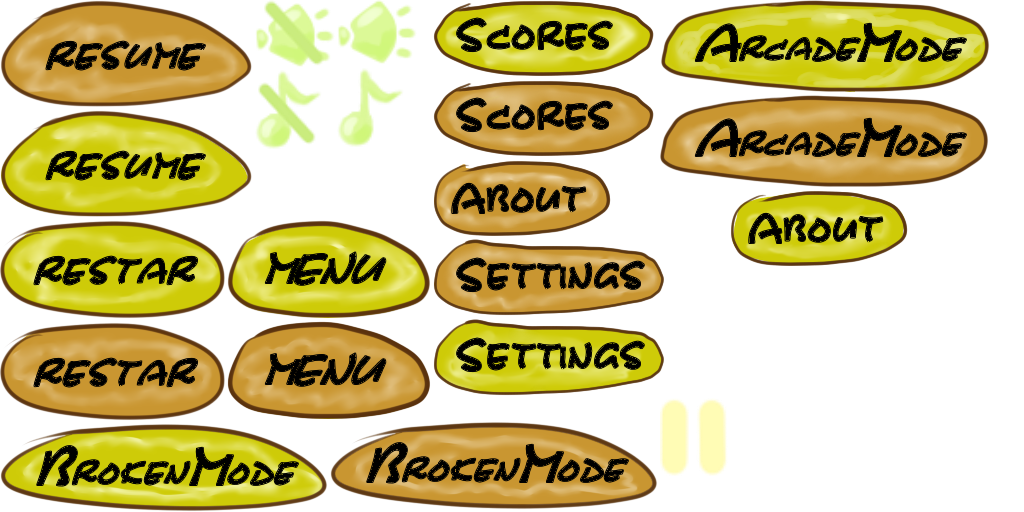
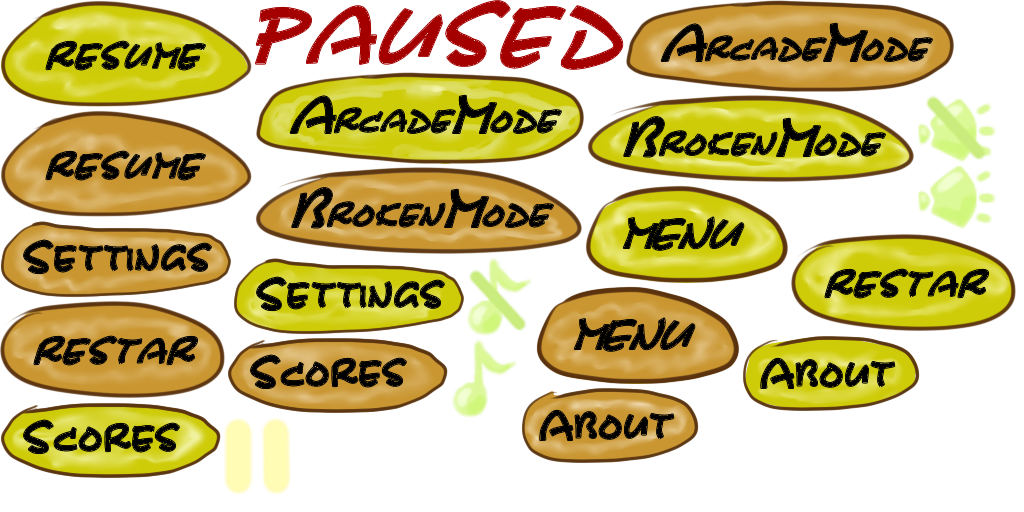
liuming

diff --git a/IGG003/S02.m b/IGG003/S02.m
@@ -25,22 +25,22 @@ static S02 *staticS02;
     [scene addChild:cl06];
     [cl06 setTag:10016];
     //broken mode
-    CCSprite* brokenNormal=[CCSprite spriteWithSpriteFrameName:@"btn11-1.png"];
-    CCSprite* brokenSecelt=[CCSprite spriteWithSpriteFrameName:@"btn11-2.png"];
-    brokenNormal.scale = 0.6f;
-    brokenSecelt.scale=0.55f;
+    CCSprite* brokenNormal=[CCSprite spriteWithSpriteFrameName:@"btn1-1.png"];
+    CCSprite* brokenSecelt=[CCSprite spriteWithSpriteFrameName:@"btn1-2.png"];
+    brokenNormal.scale = 0.8f;
+    brokenSecelt.scale=0.75f;
     //arcade mode 
     CCSprite* arcadeNormal=[CCSprite spriteWithSpriteFrameName:@"btn11-1.png"];
     CCSprite* arcadeSecelt=[CCSprite spriteWithSpriteFrameName:@"btn11-2.png"];
-    arcadeNormal.scale = 0.6f;
-    arcadeSecelt.scale=0.55f;
+    arcadeNormal.scale = 0.8f;
+    arcadeSecelt.scale=0.75f;
     
     CCMenuItemSprite* brokenSprite=[CCMenuItemSprite itemFromNormalSprite:brokenNormal selectedSprite:brokenSecelt target:scene selector:@selector(showBrokenModeScores)];
     CCMenuItemSprite* arcadeSprite=[CCMenuItemSprite itemFromNormalSprite:arcadeNormal selectedSprite:arcadeSecelt target:scene selector:@selector(showArcadeModeScores)];
     
     CCMenu* menu=[CCMenu menuWithItems:arcadeSprite,brokenSprite,nil];
     [menu alignItemsHorizontallyWithPadding:0];
-    menu.position=ccp(150, 350);    
+    menu.position=ccp(kWindowW/2+10, 400);    
     [scene addChild:menu];
     return scene;
 }

diff --git a/IGG003/CL06.m b/IGG003/CL06.m
@@ -32,7 +32,7 @@
         [self addChild:menu];
             
         CCLabelBMFont *yourScoreStr = [CCLabelBMFont labelWithString:@"Best Scores:" fntFile:@"bitmapFont.fnt"];
-        yourScoreStr.position = ccp(kWindowW/2,300);
+        yourScoreStr.position = ccp(kWindowW/2,350);
         [self addChild:yourScoreStr];
         //取得arcade mode 分数  显示
         [self getArcadeModeScores];
@@ -106,7 +106,7 @@
         NSLog(@"%@",[array objectAtIndex:i]);
         
         CCLabelBMFont *scoreStr = [CCLabelBMFont labelWithString:[array objectAtIndex:i] fntFile:@"bitmapFont.fnt"];
-        scoreStr.position = ccp(kWindowW/2,(250 - i *30));
+        scoreStr.position = ccp(kWindowW/2,(300 - i *30));
         scoreStr.tag = 600100 + i;
         [self addChild:scoreStr];
     }
@@ -117,7 +117,7 @@
         NSLog(@"%@",[array objectAtIndex:i]);
         
         CCLabelBMFont *scoreStr = [CCLabelBMFont labelWithString:[array objectAtIndex:i] fntFile:@"bitmapFont.fnt"];
-        scoreStr.position = ccp(kWindowW/2,(250 - i *30));
+        scoreStr.position = ccp(kWindowW/2,(300 - i *30));
         scoreStr.tag = 600200 + i;
         [scoreStr setVisible:NO];
         [self addChild:scoreStr];

diff --git a/IGG003/CL04.m b/IGG003/CL04.m
@@ -21,6 +21,10 @@
         bak.position = ccp(kWindowW/2,kWindowH/2);
         [self addChild:bak];
         
+        IGSprite *title = [IGSprite spriteWithSpriteFrameName:@"paused_title.png"];
+        title.position = ccp(kWindowW/2,400);
+        [self addChild:title];
+        
         CCSprite* resumeNormal=[CCSprite spriteWithSpriteFrameName:@"btn5-1.png"];
         CCSprite* resumeSecelt=[CCSprite spriteWithSpriteFrameName:@"btn5-2.png"];
         resumeSecelt.scale=0.95f;
